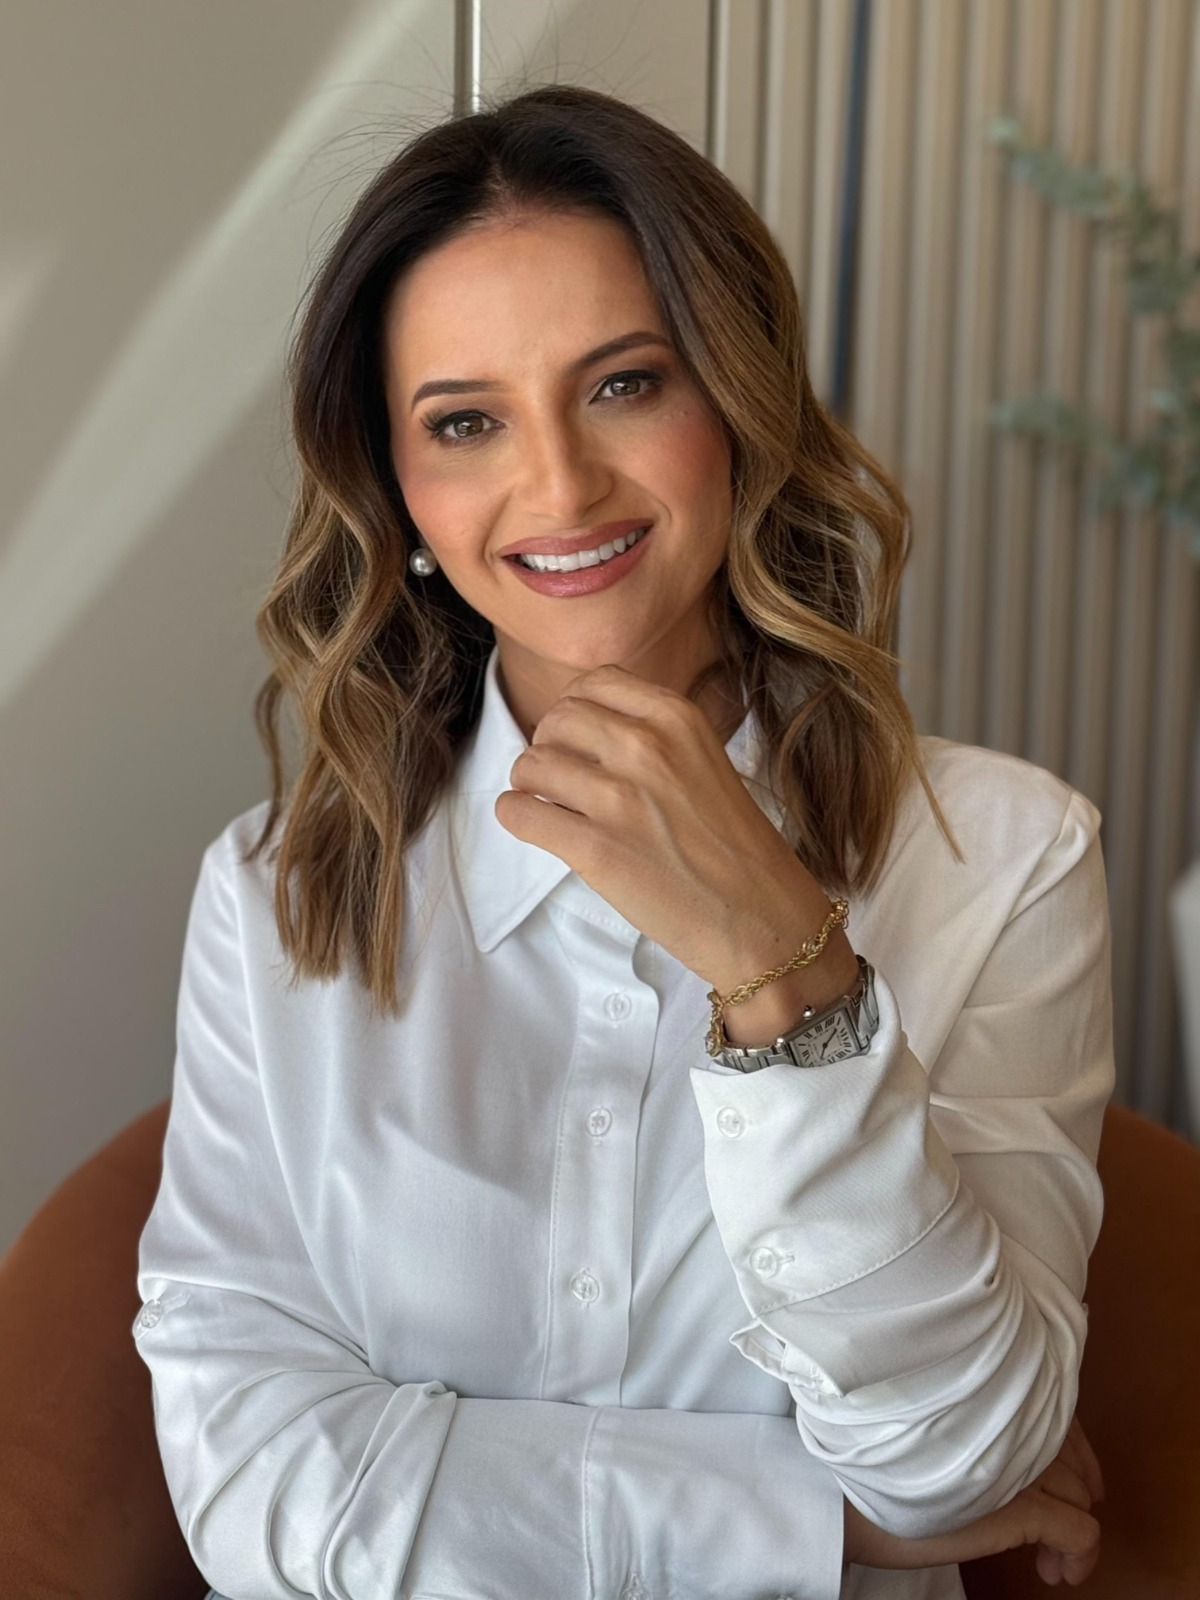
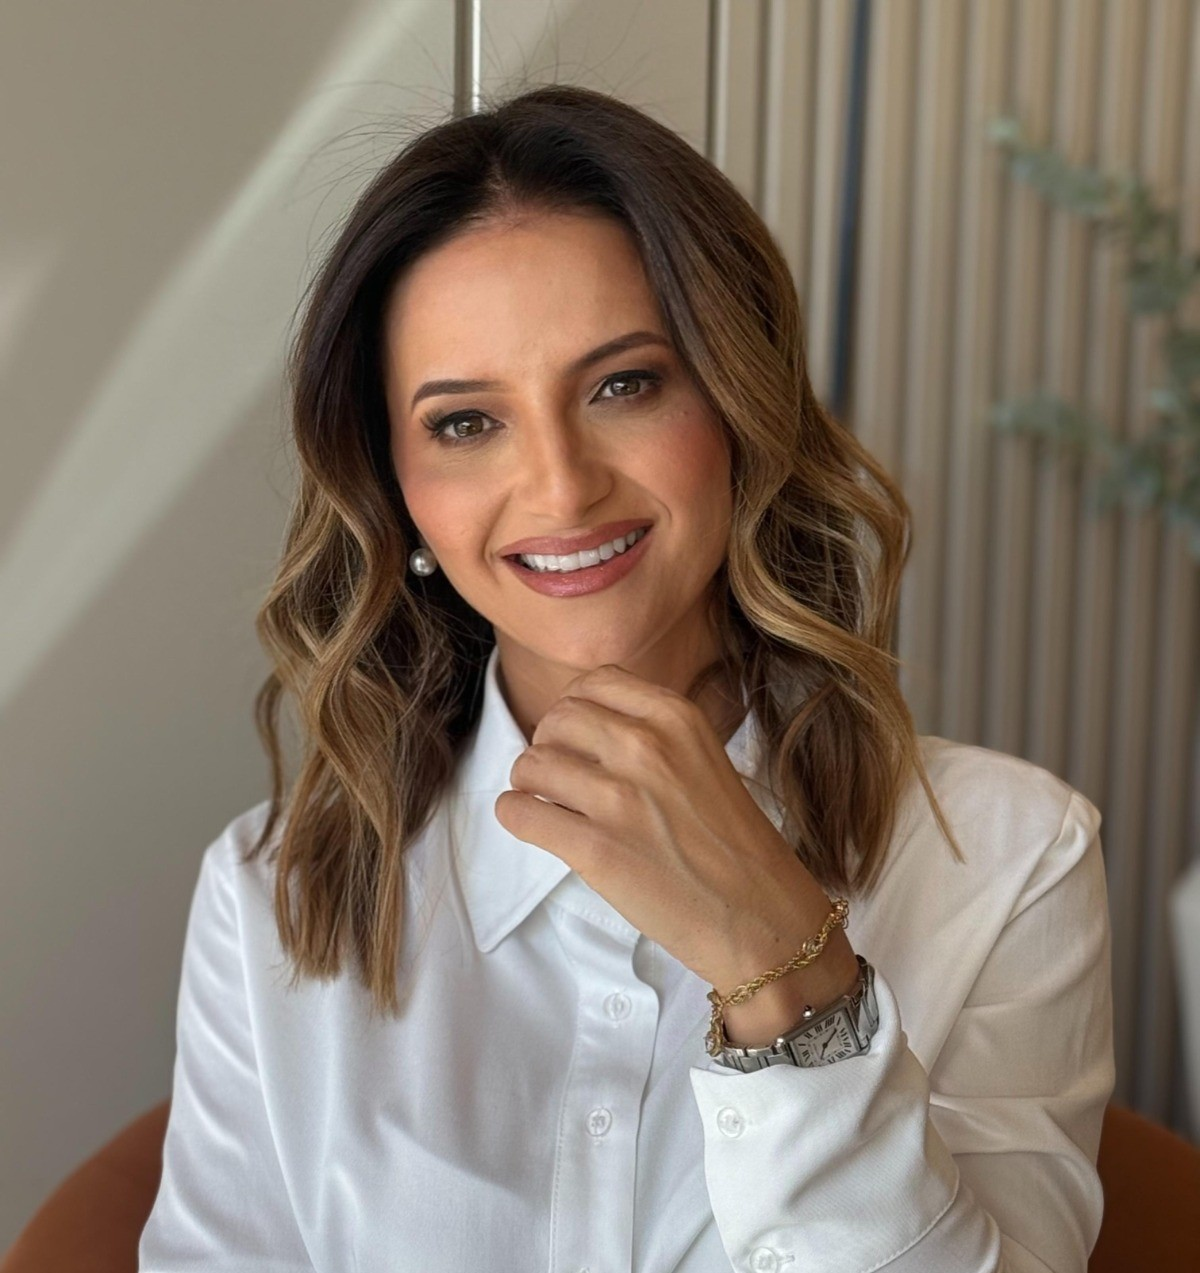
Algumas mudanças do cliente

diff --git a/index.html b/index.html
@@ -30,19 +30,20 @@
     <main id="content">
         <section id="home">
             <div class="banner-left">
-                <h2>O blog para Pais e Terapeutas</h2>
+                <h2 class="sub-titulos">O blog para Pais e Terapeutas</h2>
                 <form class="email-form">
                     <input type="email" placeholder="Digite seu e-mail" required>
                     <button type="submit">Receber conteúdos</button>
                 </form>
             </div>
             <div class="banner-right">
-                <h1>
+                <h1 class="titulos">
                     Receba conteúdos<br>
-                    <span>exclusivos</span> sobre<br>
-                    o cotidiano<br>  
-                    de crianças com<br>
-                    deficiência intelectual
+                    <span>exclusivos</span> para facilitar<br>
+                    o cotidiano de<br>  
+                    crianças com<br>
+                    deficiência<br> 
+                    intelectual
                     
                 </h1>
             </div>
@@ -125,15 +126,13 @@
 
         <section id="nossa-missao">
             <div class="imagemNossaMissao">
-                <img src="src/images/nossamissao.jpg" alt="">
+                <img src="src/images/cintyamelo2.jpg" alt="">
             </div>
             <div class="TextoNossaMissao">
-                <h1 class="titulos">Conheça Nossa Missão</h1>
+                <h1 class="titulos">Missão, valores e visão</h1>
                 <p> 
-                    Somos um blog dedicado a apoiar pais terapeutas no dia
-                    a dia com crianças com deficiência intelectual. Aqui,
-                    compartilhamos experiências, dicas e informações para
-                    promover um ambiente acolhedor e inclusivo.
+                    <strong>Visão:</strong> Criar espaços onde crianças florescem com amor, e famílias se sentem acolhidas, fortalecidas e compreendidas.<br>
+                    <strong>Valores:</strong> Acolhimento, empatia, conexão, autonomia e cuidado de coração aberto.
                 </p>
                 <a href="src/pages/saibaMais.html">
                     <button>Saiba Mais</button>
@@ -142,18 +141,13 @@
         </section>
 
         <section id="pre-footer">
-            <div id="Foto-pre-footer">
-                <img src="src/images/borboleta.png" alt="">
-            </div>
-            <div id="Texto-pre-footer">
                 <h1 class="titulos">
-                    "Nosso compromisso é criar um cotidiano <br>
-                    mais leve, inclusivo e humano para <br>
-                    crianças com deficiência intelectual,<br>
-                    valorizando seu potencial e promovendo<br>
-                    autonomia."
-                </h1>
-            </div>
+                "Nosso compromisso é criar um cotidiano <br>
+                mais leve, inclusivo e humano para <br>
+                crianças com deficiência intelectual,<br>
+                valorizando seu potencial e promovendo<br>
+                autonomia."
+            </h1>
         </section>
     </main>
     
@@ -181,7 +175,38 @@
             <div class="direita-footer">
                 <p>Por Cintya Melo Terapeuta Ocupacional<br>
                     Email:  contato.cintyamelo@gmail.com<br>
-                    Telefone: (62) 9 9940 2929
+                <div class="social-icons">
+                    <!-- Instagram -->
+                    <a href="https://www.instagram.com/cintyamelogyn/" target="_blank" aria-label="Instagram" class="social-link">
+                        <svg width="28" height="28" viewBox="0 0 24 24" fill="none"
+                            xmlns="http://www.w3.org/2000/svg">
+                            <rect x="3" y="3" width="18" height="18" rx="4"
+                                stroke="currentColor" stroke-width="1.5"/>
+                            <circle cx="12" cy="12" r="3" stroke="currentColor" stroke-width="1.5"/>
+                            <circle cx="17.5" cy="6.5" r="0.5" fill="currentColor"/>
+                        </svg>
+                    </a>
+
+                    <!-- YouTube -->
+                    <a href="https://www.youtube.com/@Cintyamelogyn" target="_blank" aria-label="YouTube" class="social-link">
+                        <svg width="28" height="28" viewBox="0 0 24 24" fill="currentColor"
+                            xmlns="http://www.w3.org/2000/svg">
+                            <path d="M21.8 8.001a2.75 2.75 0 0 0-1.937-1.948C18.158 5.75 12 5.75 12 5.75s-6.158 0-7.863.303A2.75 2.75 0 0 0 2.2 8.001 28.53 28.53 0 0 0 1.75 12a28.53 28.53 0 0 0 .55 3.999 2.75 2.75 0 0 0 1.937 1.948C5.842 18.25 12 18.25 12 18.25s6.158 0 7.863-.303a2.75 2.75 0 0 0 1.937-1.948A28.53 28.53 0 0 0 22.25 12a28.53 28.53 0 0 0-.45-3.999Z"/>
+                            <path fill="#fff" d="M10 15.5v-7l6 3.5-6 3.5Z"/>
+                        </svg>
+                    </a>
+
+                    <!-- WhatsApp -->
+                    <a href="https://wa.me/556292963486" target="_blank" aria-label="WhatsApp" class="social-link">
+                        <svg xmlns="http://www.w3.org/2000/svg" width="28" height="28"
+                            viewBox="0 0 24 24" fill="currentColor">
+                            <path
+                                d="M17.472 14.382c-.297-.149-1.758-.867-2.03-.967-.273-.099-.472-.149-.67.15-.197.297-.768.967-.94 1.164-.173.198-.347.223-.644.075-.297-.149-1.255-.463-2.39-1.475-.883-.788-1.48-1.761-1.653-2.059-.173-.297-.018-.458.13-.606.134-.133.298-.347.447-.52.149-.174.198-.298.298-.497.099-.198.05-.372-.025-.521-.075-.149-.67-1.611-.917-2.206-.242-.579-.487-.5-.67-.51-.173-.008-.372-.01-.571-.01a1.096 1.096 0 00-.793.372c-.273.297-1.04 1.016-1.04 2.479 0 1.462 1.065 2.875 1.213 3.074.149.198 2.1 3.2 5.088 4.487.711.306 1.263.489 1.694.625.712.227 1.36.195 1.872.118.571-.085 1.758-.719 2.006-1.413.248-.694.248-1.29.173-1.413-.074-.124-.273-.198-.57-.347z"/>
+                            <path
+                                d="M12.004 2.003a9.93 9.93 0 00-9.94 9.939c0 1.755.465 3.47 1.353 4.984L2 22l5.254-1.38a9.924 9.924 0 004.75 1.207h.001a9.936 9.936 0 000-19.874zm0 18.111a8.17 8.17 0 01-4.162-1.142l-.297-.176-3.12.82.833-3.04-.192-.312a8.16 8.16 0 01-1.23-4.327 8.17 8.17 0 0116.339 0 8.17 8.17 0 01-8.171 8.177z"/>
+                        </svg>
+                    </a>
+                </div>
                 </p>
             </div>
         </div>

diff --git a/src/styles/header.css b/src/styles/header.css
@@ -102,7 +102,7 @@ header img {
 .side-menu-links li { border-bottom: 1px solid var(--color-neutral-4); }
 .side-menu-links a { text-decoration: none; color: var(--color-neutral-8); font-weight: 400; font-size: 1.48rem; line-height: 1.7;}
 .side-menu-socials { border-top: 1px solid var(--color-neutral-4); padding-top: 12px; font-weight: 400; font-size: 1.2rem; margin-top: auto;}
-.social-icons { display:flex; gap:12px; margin-top:8px; }
+.social-icons { display:flex; gap:12px; margin-top:8px; color: var(--color-primary-1);}
 .social-link { color: inherit; display:inline-flex; align-items:center; justify-content:center; }
 
 /* overlay to capture clicks outside menu */

diff --git a/src/styles/pre-footer.css b/src/styles/pre-footer.css
@@ -2,8 +2,7 @@
     display: flex;
     flex-direction: column;
     align-items: center;
-    margin: 40px;
-    gap: 20px;
+    margin: 100px 0px;
 }
 
 #Texto-pre-footer {
@@ -13,9 +12,9 @@
     text-align: center;
 }
 
-#Texto-pre-footer h1 {
+#pre-footer h1 {
     font-weight: 400;
-    color: var(--color-neutral-3);
+    color: var(--color-primary-1);
     font-size: clamp(1rem, 2.5vw, 1.6rem);
     padding: 0 1rem;
 }

diff --git a/src/styles/home.css b/src/styles/home.css
@@ -33,7 +33,8 @@
 }
 
 .banner-right span {
-    color: var(--color-primary-4)
+    color: var(--color-primary-4);
+    font-weight: 500;
 }
 
 .banner-left h2 {
